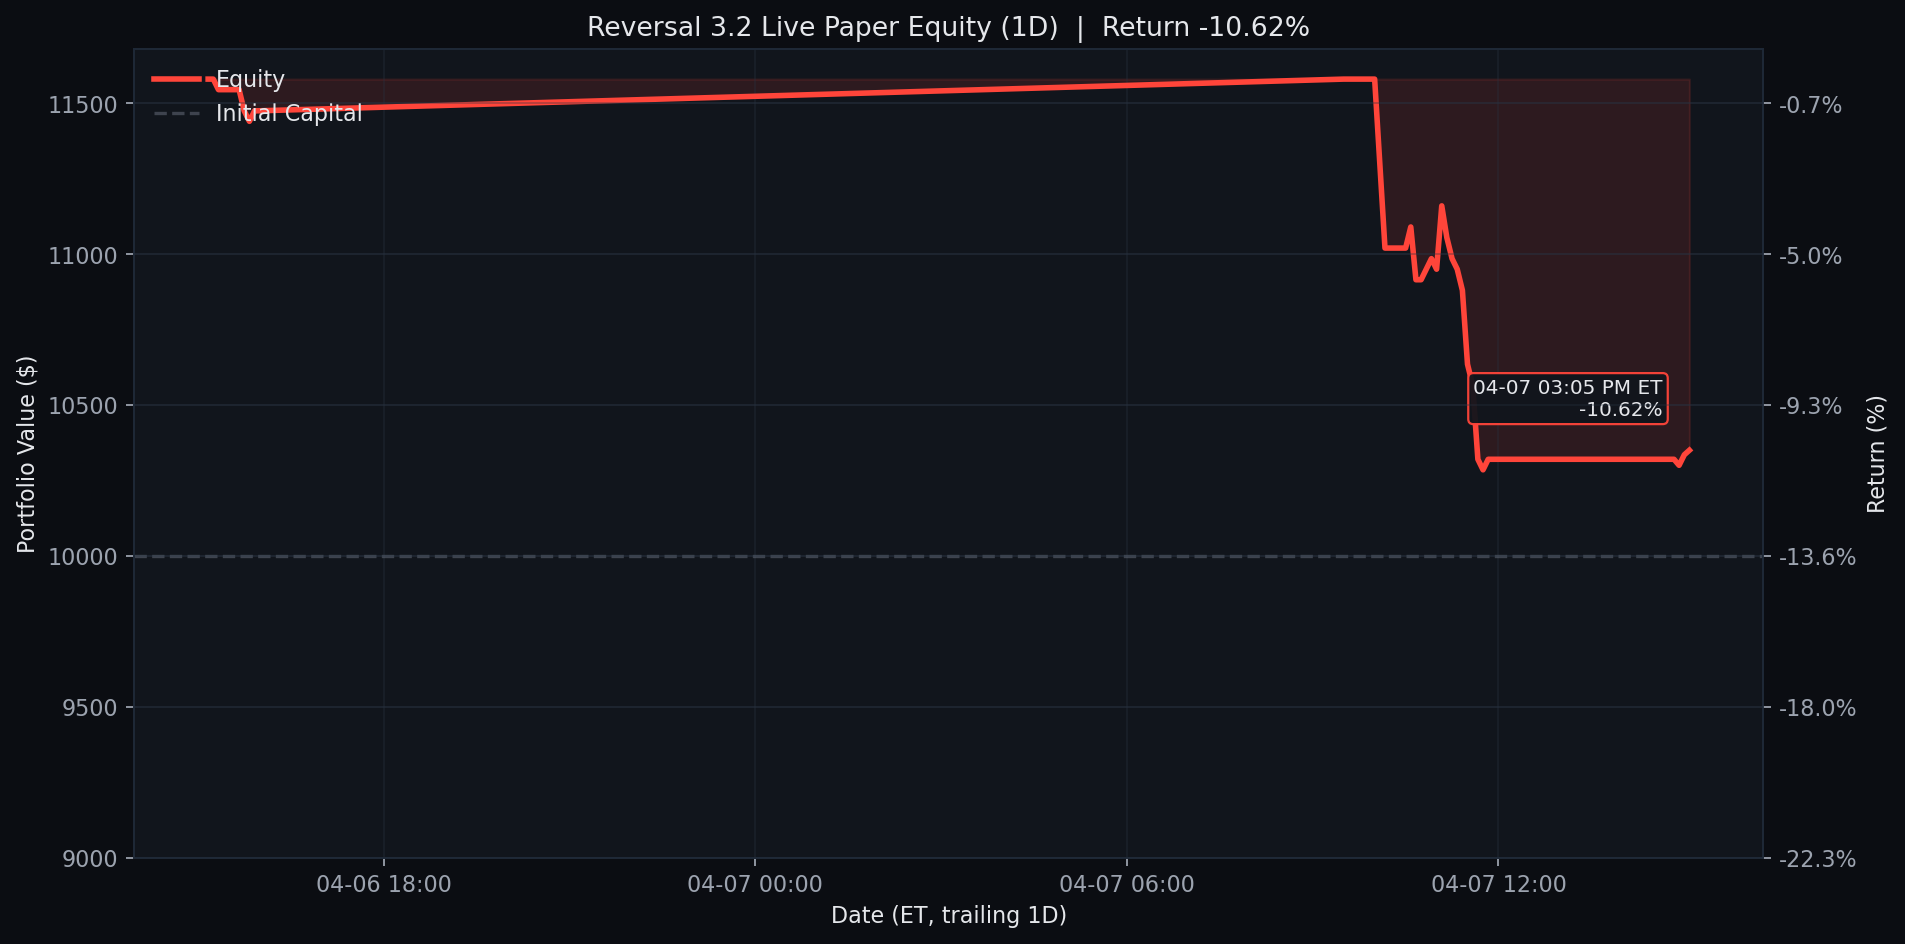
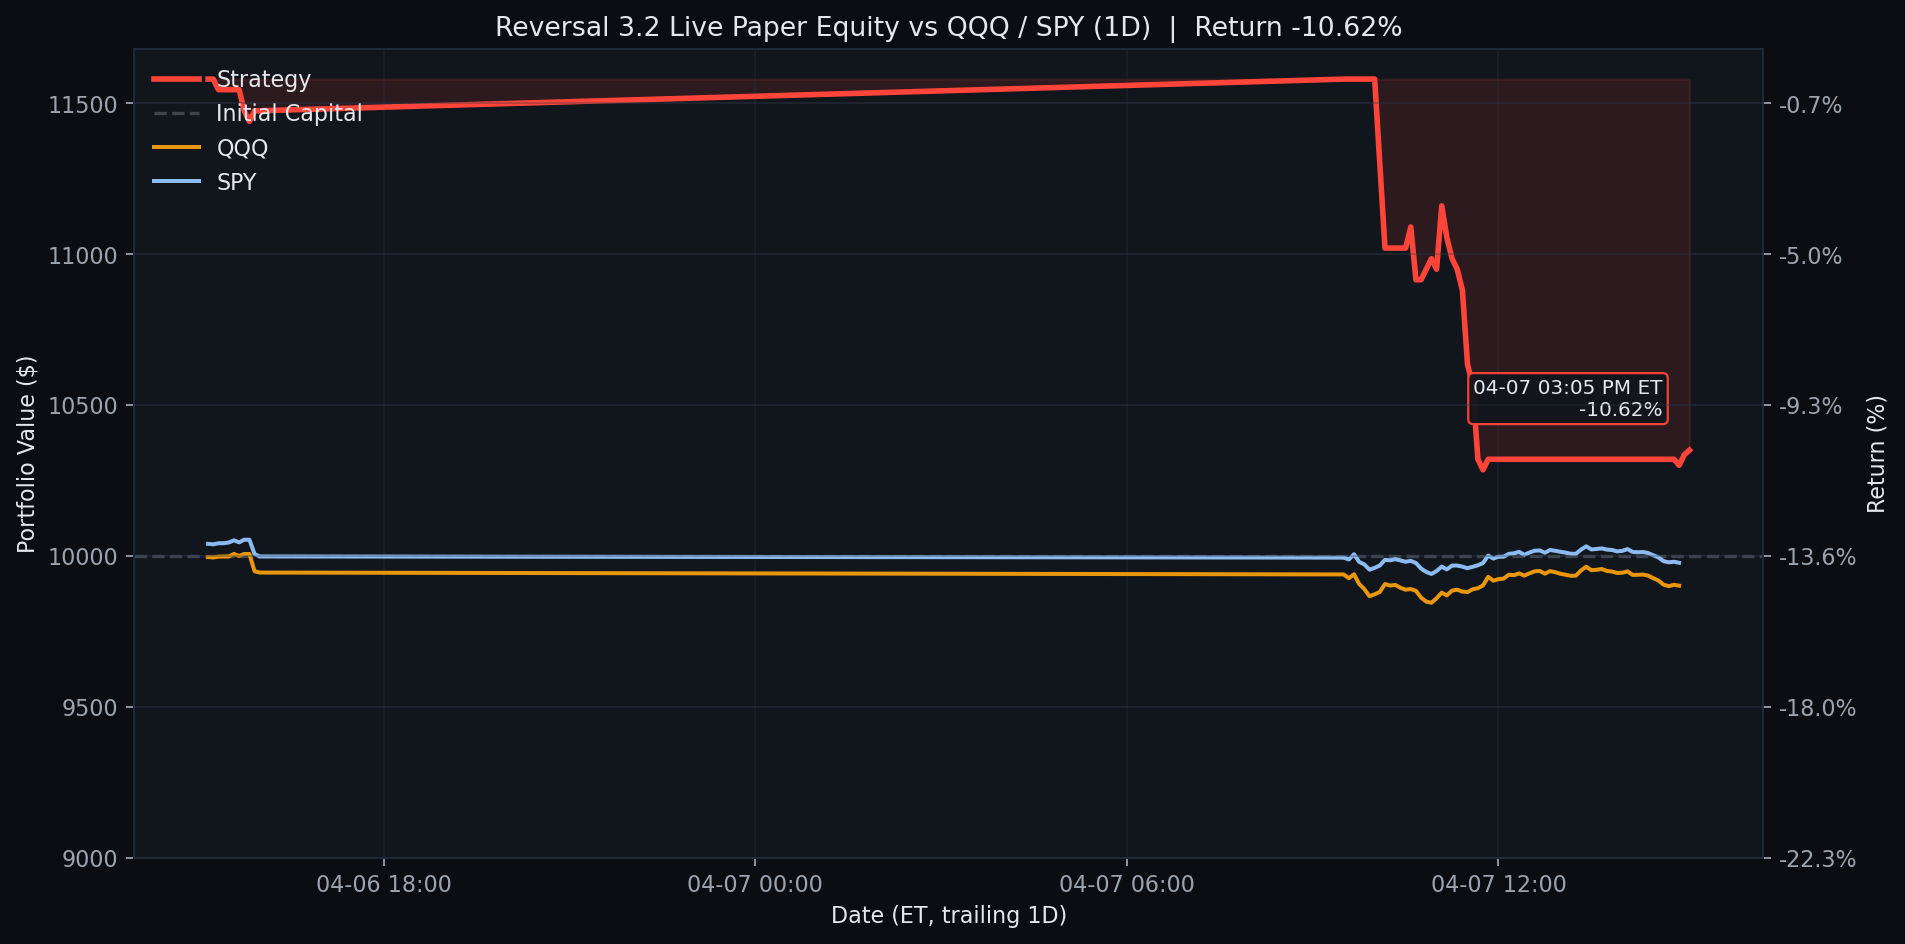
Overlay QQQ and SPY on live charts

diff --git a/reversal_3_2_live.py b/reversal_3_2_live.py
@@ -66,6 +66,10 @@ DASHBOARD_PATH = LIVE_DIR / "README.md"
 PLOT_1D_PATH = ASSETS_DIR / "reversal_3_2_live_equity_1d.png"
 PLOT_1W_PATH = ASSETS_DIR / "reversal_3_2_live_equity.png"
 PLOT_1M_PATH = ASSETS_DIR / "reversal_3_2_live_equity_1m.png"
+BENCHMARK_COLORS = {
+    "QQQ": "#f59e0b",
+    "SPY": "#93c5fd",
+}
 
 SLOT_TO_ET = {
     "manage_0930": (9, 30),
@@ -1014,7 +1018,72 @@ def humanize_exit_reason(reason: str) -> str:
     return mapping.get(reason, reason)
 
 
-def plot_live_equity_window(equity_df: pd.DataFrame, window_label: str, window_days: int, output_path: Path) -> None:
+def build_live_benchmark_frame(equity_df: pd.DataFrame) -> pd.DataFrame:
+    if equity_df.empty:
+        return pd.DataFrame(columns=["timestamp_plot", *BENCHMARK_COLORS.keys()])
+
+    base_df = equity_df.copy()
+    base_df["timestamp_et"] = pd.to_datetime(base_df["timestamp_et"], errors="coerce", utc=True)
+    base_df = base_df[base_df["timestamp_et"].notna()].copy()
+    if base_df.empty:
+        return pd.DataFrame(columns=["timestamp_plot", *BENCHMARK_COLORS.keys()])
+
+    base_df["timestamp_plot"] = base_df["timestamp_et"].dt.tz_convert(ET).dt.tz_localize(None)
+    base_df = base_df.sort_values("timestamp_plot").drop_duplicates(subset=["timestamp_plot"], keep="last")
+    benchmark_df = base_df[["timestamp_plot"]].copy()
+
+    anchor_ts = pd.Timestamp(base_df["timestamp_plot"].min()).tz_localize(ET)
+    end_ts = pd.Timestamp(base_df["timestamp_plot"].max()).tz_localize(ET) + pd.Timedelta(days=1)
+
+    for symbol in BENCHMARK_COLORS:
+        history = yf.Ticker(symbol).history(
+            start=anchor_ts.date().isoformat(),
+            end=end_ts.date().isoformat(),
+            interval="5m",
+            auto_adjust=False,
+            prepost=False,
+        )
+        if history.empty:
+            benchmark_df[symbol] = np.nan
+            continue
+
+        history = history.reset_index()[["Datetime", "Close"]].rename(columns={"Datetime": "timestamp_et", "Close": symbol})
+        history["timestamp_et"] = pd.to_datetime(history["timestamp_et"], errors="coerce")
+        history = history[history["timestamp_et"].notna()].copy()
+        if history.empty:
+            benchmark_df[symbol] = np.nan
+            continue
+
+        if history["timestamp_et"].dt.tz is None:
+            history["timestamp_et"] = history["timestamp_et"].dt.tz_localize(ET)
+        else:
+            history["timestamp_et"] = history["timestamp_et"].dt.tz_convert(ET)
+
+        history["timestamp_plot"] = history["timestamp_et"].dt.tz_localize(None)
+        history = history.sort_values("timestamp_plot")[["timestamp_plot", symbol]]
+        aligned = pd.merge_asof(
+            benchmark_df[["timestamp_plot"]].sort_values("timestamp_plot"),
+            history,
+            on="timestamp_plot",
+            direction="backward",
+        )
+        first_valid = aligned[symbol].dropna()
+        if first_valid.empty:
+            benchmark_df[symbol] = np.nan
+            continue
+        first_price = float(first_valid.iloc[0])
+        benchmark_df[symbol] = INITIAL_CAPITAL * aligned[symbol] / first_price
+
+    return benchmark_df
+
+
+def plot_live_equity_window(
+    equity_df: pd.DataFrame,
+    benchmark_df: pd.DataFrame,
+    window_label: str,
+    window_days: int,
+    output_path: Path,
+) -> None:
     if equity_df.empty:
         return
     output_path.parent.mkdir(parents=True, exist_ok=True)
@@ -1030,6 +1099,9 @@ def plot_live_equity_window(equity_df: pd.DataFrame, window_label: str, window_d
     plot_df = plot_df[plot_df["timestamp_plot"] >= window_start].copy()
     if plot_df.empty:
         return
+    benchmark_window = benchmark_df.copy()
+    if not benchmark_window.empty:
+        benchmark_window = benchmark_window[benchmark_window["timestamp_plot"] >= window_start].copy()
     period_start_equity = float(plot_df["equity"].iloc[0])
     period_end_equity = float(plot_df["equity"].iloc[-1])
     if period_start_equity <= 0:
@@ -1038,15 +1110,36 @@ def plot_live_equity_window(equity_df: pd.DataFrame, window_label: str, window_d
         period_return_pct = (period_end_equity / period_start_equity - 1.0) * 100
     line_color = GREEN_LINE if period_end_equity >= period_start_equity else RED_LINE
     y_band = INITIAL_CAPITAL * 0.10
-    data_min = float(plot_df["equity"].min())
-    data_max = float(plot_df["equity"].max())
+    benchmark_values: list[float] = []
+    if not benchmark_window.empty:
+        for symbol in BENCHMARK_COLORS:
+            if symbol in benchmark_window.columns:
+                benchmark_values.extend(pd.to_numeric(benchmark_window[symbol], errors="coerce").dropna().tolist())
+    data_min = float(min([plot_df["equity"].min(), *benchmark_values])) if benchmark_values else float(plot_df["equity"].min())
+    data_max = float(max([plot_df["equity"].max(), *benchmark_values])) if benchmark_values else float(plot_df["equity"].max())
     lower_bound = min(INITIAL_CAPITAL - y_band, data_min - INITIAL_CAPITAL * 0.01)
     upper_bound = max(INITIAL_CAPITAL + y_band, data_max + INITIAL_CAPITAL * 0.01)
 
     fig, axis = plt.subplots(figsize=(12, 6), facecolor=FIG_BG)
-    axis.plot(plot_df["timestamp_plot"], plot_df["equity"], linewidth=2.5, color=line_color, label="Equity", zorder=3)
+    axis.plot(plot_df["timestamp_plot"], plot_df["equity"], linewidth=2.5, color=line_color, label="Strategy", zorder=3)
     axis.fill_between(plot_df["timestamp_plot"], plot_df["equity"], period_start_equity, color=line_color, alpha=0.12, zorder=1)
     axis.axhline(INITIAL_CAPITAL, color=BASELINE, linestyle="--", alpha=0.5, label="Initial Capital", zorder=2)
+    if not benchmark_window.empty:
+        for symbol, color in BENCHMARK_COLORS.items():
+            if symbol not in benchmark_window.columns:
+                continue
+            series = pd.to_numeric(benchmark_window[symbol], errors="coerce")
+            if series.notna().sum() == 0:
+                continue
+            axis.plot(
+                benchmark_window["timestamp_plot"],
+                series,
+                linewidth=1.8,
+                color=color,
+                alpha=0.95,
+                label=symbol,
+                zorder=2.5,
+            )
     axis.set_ylim(lower_bound, upper_bound)
     locator = mdates.AutoDateLocator(minticks=3, maxticks=6)
     formatter = mdates.DateFormatter("%m-%d %H:%M" if window_days <= 1 else "%m-%d")
@@ -1085,7 +1178,7 @@ def plot_live_equity_window(equity_df: pd.DataFrame, window_label: str, window_d
         color=TEXT,
         bbox={"boxstyle": "round,pad=0.25", "facecolor": AX_BG, "edgecolor": line_color, "alpha": 0.95},
     )
-    axis.set_title(f"Reversal 3.2 Live Paper Equity ({window_label})  |  Return {period_return_pct:+.2f}%")
+    axis.set_title(f"Reversal 3.2 Live Paper Equity vs QQQ / SPY ({window_label})  |  Return {period_return_pct:+.2f}%")
     axis.set_xlabel(f"Date (ET, trailing {window_label})")
     axis.set_ylabel("Portfolio Value ($)")
     legend = axis.legend(frameon=False, loc="upper left")
@@ -1097,9 +1190,10 @@ def plot_live_equity_window(equity_df: pd.DataFrame, window_label: str, window_d
 
 
 def plot_live_equity(equity_df: pd.DataFrame) -> None:
-    plot_live_equity_window(equity_df, "1D", 1, PLOT_1D_PATH)
-    plot_live_equity_window(equity_df, "1W", 7, PLOT_1W_PATH)
-    plot_live_equity_window(equity_df, "1M", 30, PLOT_1M_PATH)
+    benchmark_df = build_live_benchmark_frame(equity_df)
+    plot_live_equity_window(equity_df, benchmark_df, "1D", 1, PLOT_1D_PATH)
+    plot_live_equity_window(equity_df, benchmark_df, "1W", 7, PLOT_1W_PATH)
+    plot_live_equity_window(equity_df, benchmark_df, "1M", 30, PLOT_1M_PATH)
 
 
 def build_chart_sections(image_prefix: str, cache_bust: str | None = None) -> list[str]:
@@ -1242,7 +1336,7 @@ def render_dashboard(
             "",
             "## Equity Curves",
             "",
-            "Each chart is generated from the same live equity series with no-lookahead marks. The latest point is annotated with its exact ET checkpoint time and return %.",
+            "Each chart is generated from the same live equity series with no-lookahead marks and includes normalized QQQ / SPY benchmark overlays starting from the same initial capital. The latest point is annotated with its exact ET checkpoint time and return %.",
             "",
             *build_chart_sections("../../", cache_bust=cache_bust),
         ]

diff --git a/results/reversal_3_2_live/README.md b/results/reversal_3_2_live/README.md
@@ -1,7 +1,7 @@
 # Reversal 3.2 Live Paper Test
 
-Last updated (ET): `2026-04-07 15:05:00 EDT`
-Last processed slot: `entry_1500`
+Last updated (ET): `2026-04-07 15:09:52 EDT`
+Last processed slot: `manual_refresh`
 
 ## Active Configuration
 
@@ -22,14 +22,14 @@ Last processed slot: `entry_1500`
 - Cash: `$5,640.00`
 - Equity: `$10,350.00`
 - Realized PnL: `$320.00`
-- Unrealized PnL: `$30.00`
+- Unrealized PnL: `$-25.00`
 - Open positions: `1`
 
 ## Open Positions
 
 ```text
 ticker     contract_symbol entry_trade_date  business_days_held  contracts  cash_spent  current_position_value  entry_option_price  current_option_price  entry_spot  current_spot  unrealized_pnl  unrealized_return_pct  success_rate  matched_signals  current_drop_pct  entry_iv_pct  current_iv_pct  rolling_sigma_20d_pct
-  TSLA TSLA260515C00340000       2026-04-07                   0          2      4680.0                  4710.0                23.4                 23.55      340.83        340.31            30.0                   0.64         100.0               13               3.4         51.95           52.84                  42.33
+  TSLA TSLA260515C00340000       2026-04-07                   0          2      4680.0                  4655.0                23.4                 23.28      340.83         340.4           -25.0                  -0.53         100.0               13               3.4         51.95           52.07                  42.33
 ```
 
 ## Today's Closed Trades (2026-04-07)
@@ -41,21 +41,7 @@ ticker    contract_symbol entry_trade_date_et exit_trade_date_et  entry_option_p
 
 ## Current Screener Snapshot
 
-```text
-ticker  success_rate_%  matched_signals  current_drop_%  target_rebound_$  target_price  rolling_sigma_20d_%  call_candidate
-  TSLA          100.00               12            3.55              8.76        349.07                42.33            True
-  MRVL           96.30               27            1.74              1.33        108.94                70.84            True
-  REGN           96.15               26            1.20              6.39        760.30                25.24            True
-  NFLX           94.87               39            0.61              0.42         98.75                26.96            True
-  SBUX           94.44               36            0.62              0.41         94.60                40.32            True
-  NVDA           92.00               25            1.31              1.63        176.94                33.70            True
-  MPWR           91.43               35            1.02              8.39       1176.43                51.99            True
-  UPRO           90.91               22            2.46              1.74        100.00                53.86            True
-  CDNS           90.00               40            1.07              2.09        278.50                25.26            True
-  COST           90.00               10            1.26              8.97       1014.71                13.04            True
-  PCAR           88.24               34            0.86              0.71        118.02                21.97            True
-   KDP           88.24               17            0.84              0.15         25.64                20.32            True
-```
+_None_
 
 ## Recent Events
 
@@ -75,25 +61,25 @@ ticker  success_rate_%  matched_signals  current_drop_%  target_rebound_$  targe
 
 ## Equity Curves
 
-Each chart is generated from the same live equity series with no-lookahead marks. The latest point is annotated with its exact ET checkpoint time and return %.
+Each chart is generated from the same live equity series with no-lookahead marks and includes normalized QQQ / SPY benchmark overlays starting from the same initial capital. The latest point is annotated with its exact ET checkpoint time and return %.
 
 <details>
 <summary><strong>1D</strong></summary>
 
-![Reversal 3.2 Live Equity 1D](../../assets/reversal_3_2_live_equity_1d.png?v=20260407150500)
+![Reversal 3.2 Live Equity 1D](../../assets/reversal_3_2_live_equity_1d.png?v=20260407150952)
 
 </details>
 
 <details open>
 <summary><strong>1W</strong></summary>
 
-![Reversal 3.2 Live Equity 1W](../../assets/reversal_3_2_live_equity.png?v=20260407150500)
+![Reversal 3.2 Live Equity 1W](../../assets/reversal_3_2_live_equity.png?v=20260407150952)
 
 </details>
 
 <details>
 <summary><strong>1M</strong></summary>
 
-![Reversal 3.2 Live Equity 1M](../../assets/reversal_3_2_live_equity_1m.png?v=20260407150500)
+![Reversal 3.2 Live Equity 1M](../../assets/reversal_3_2_live_equity_1m.png?v=20260407150952)
 
 </details>

diff --git a/README.md b/README.md
@@ -3,10 +3,10 @@
 <!-- reversal-3.2-live:start -->
 ## Reversal 3.2 Live Paper Test
 
-- Last updated (ET): `2026-04-07 15:05:00 EDT`
-- Equity: `$10,350.00` | Realized: `$320.00` | Unrealized: `$30.00` | Open positions: `1`
+- Last updated (ET): `2026-04-07 15:09:52 EDT`
+- Equity: `$10,350.00` | Realized: `$320.00` | Unrealized: `$-25.00` | Open positions: `1`
 - Today closed trades: `1`
-- Current slot: `entry_1500`
+- Current slot: `manual_refresh`
 - Universe: `qqq_plus_leverage_etfs`
 - Chart windows: `1D / 1W / 1M` (default open panel: `1W`)
 
@@ -14,27 +14,27 @@
 
 ```text
 ticker     contract_symbol  contracts  cash_spent  current_position_value  current_option_price  unrealized_pnl  unrealized_return_pct  business_days_held
-  TSLA TSLA260515C00340000          2      4680.0                  4710.0                 23.55            30.0                   0.64                   0
+  TSLA TSLA260515C00340000          2      4680.0                  4655.0                 23.28           -25.0                  -0.53                   0
 ```
 
 <details>
 <summary><strong>1D</strong></summary>
 
-![Reversal 3.2 Live Equity 1D](assets/reversal_3_2_live_equity_1d.png?v=20260407150500)
+![Reversal 3.2 Live Equity 1D](assets/reversal_3_2_live_equity_1d.png?v=20260407150952)
 
 </details>
 
 <details open>
 <summary><strong>1W</strong></summary>
 
-![Reversal 3.2 Live Equity 1W](assets/reversal_3_2_live_equity.png?v=20260407150500)
+![Reversal 3.2 Live Equity 1W](assets/reversal_3_2_live_equity.png?v=20260407150952)
 
 </details>
 
 <details>
 <summary><strong>1M</strong></summary>
 
-![Reversal 3.2 Live Equity 1M](assets/reversal_3_2_live_equity_1m.png?v=20260407150500)
+![Reversal 3.2 Live Equity 1M](assets/reversal_3_2_live_equity_1m.png?v=20260407150952)
 
 </details>
 
